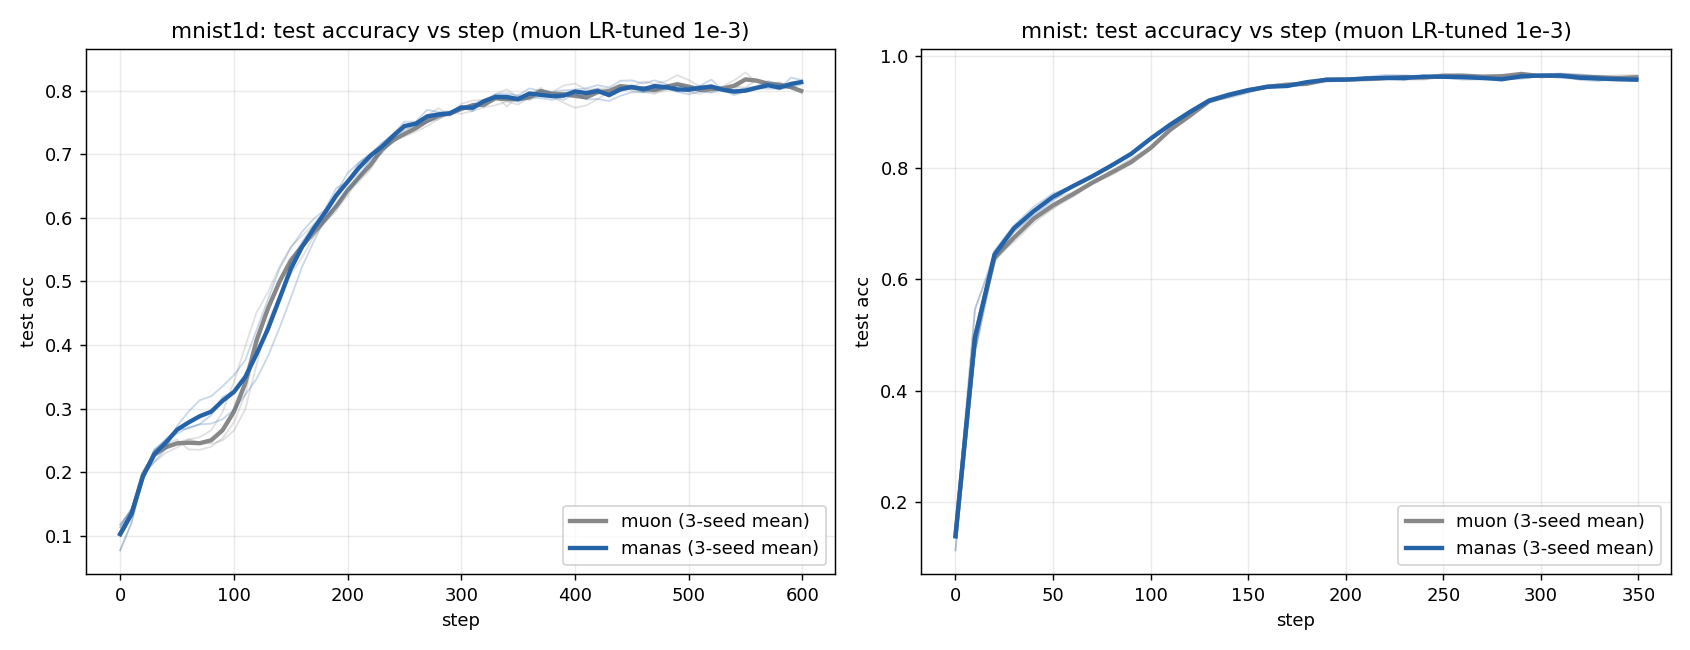
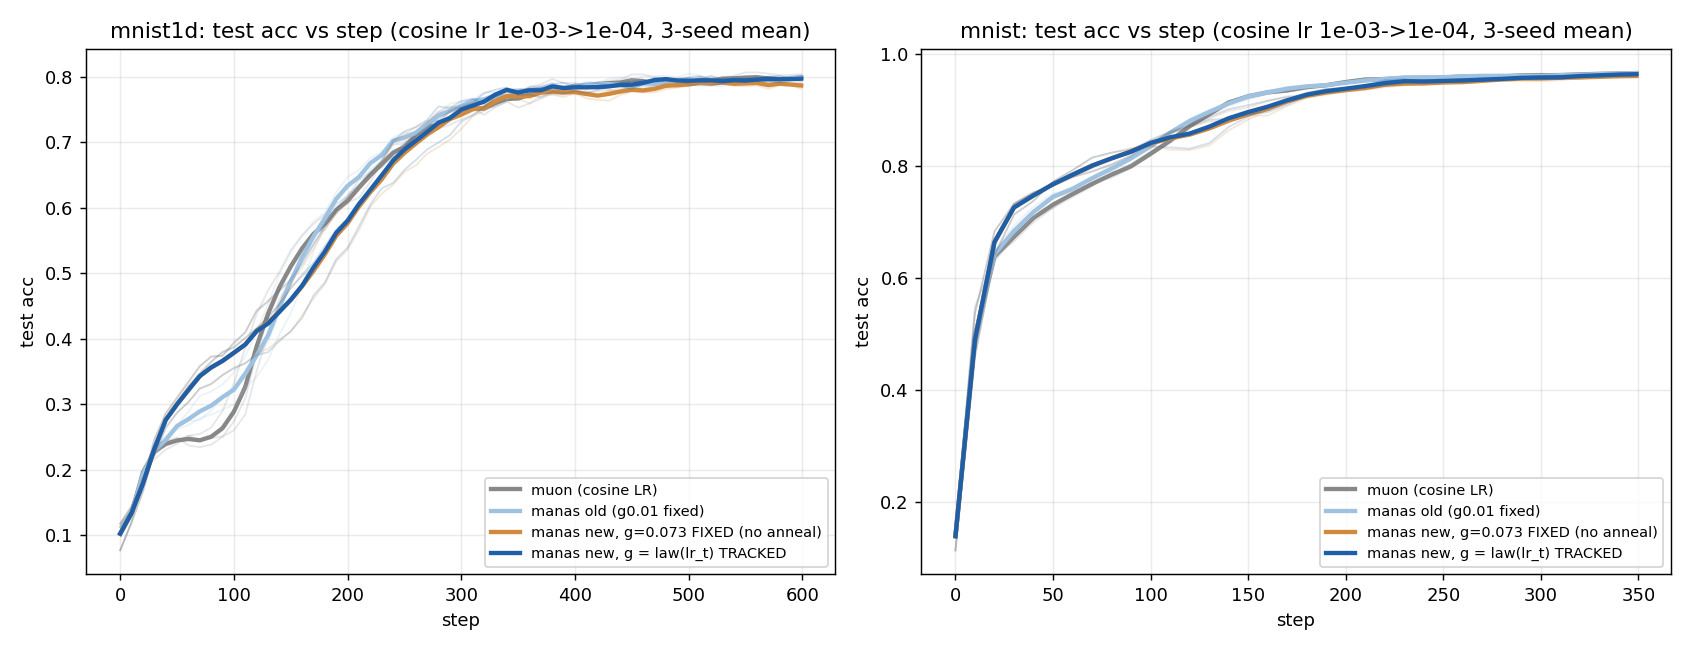
manas: MNIST demo v2 - 3-arm speed test + gamma-tracks-LR curves
speed_mnist.py: muon (LR-tuned) vs old recipe (g0.01) vs new (law gamma +
sketch window): new doubles the old train edge on both datasets (mnist1d
-0.0146 vs -0.0069; mnist -0.0045 vs -0.0022), 6/6 seeds.

speed_mnist_acc.py: cosine LR (1e-3 -> 1e-4), four arms incl. gamma FIXED
vs gamma = law(lr_t) recomputed per step. Tracked gamma keeps the full
early-training lead AND lands on the accuracy ceiling; fixed gamma shows
the residual endgame bias at the mnist1d tail. The 2D-toy anneal
prediction, demonstrated end-to-end: gamma is a function of lr - evaluate
it as one and the convergent-task trade disappears.

diff --git a/.autoresearch/manas/speed_mnist.py b/.autoresearch/manas/speed_mnist.py
@@ -92,14 +92,21 @@ DATA = {"mnist1d": data_mnist1d, "mnist": data_mnist}
 MODEL = {"mnist1d": Net1D, "mnist": NetMNIST}
 
 
-def run(ds, seed, lr, manas, x, y, xt, yt):
+def law_gamma(lr):
+    """The dose law at this config: gamma = 0.08 * sqrt(lr/3e-4) * k/sqrt(m)."""
+    return 0.08 * (lr / 3e-4) ** 0.5 * GA / MICRO ** 0.5
+
+
+def run(ds, seed, lr, gamma, x, y, xt, yt):
+    """gamma=None -> muon; else manas at that probe_gamma (sketch window + lazy shift +
+    ga1 self-gate all on current defaults; ga=4 engages the full stack)."""
     torch.manual_seed(seed)
     model = MODEL[ds]().to(DEV)
     mats = [p for p in model.parameters() if p.ndim == 2]
     rest = [p for p in model.parameters() if p.ndim != 2]
     kw = (dict(micro_vote=True, probe_rho=1.0, probe_rho_step=0.96,
-               probe_gamma=0.01, probe_rank=8)                      # gamma_intra unset = gamma
-          if manas else dict(probe_gamma=0.0))
+               probe_gamma=gamma, probe_rank=8)                     # gamma_intra unset = gamma
+          if gamma is not None else dict(probe_gamma=0.0))
     opt = ManasOptimizer(mats, lr=lr, weight_decay=0.01, **kw)
     aux = torch.optim.AdamW(rest, lr=lr, weight_decay=0.01)
 
@@ -148,7 +155,7 @@ if __name__ == "__main__":
         # Phase 1: muon LR tune
         tune = {}
         for lr in (1e-3, 2e-3, 4e-3, 8e-3):
-            r = run(ds, 0, lr, False, x, y, xt, yt)
+            r = run(ds, 0, lr, None, x, y, xt, yt)
             tune[lr] = r["tail"]
             out[ds]["tune"][f"{lr:.0e}"] = {"tail": r["tail"], "acc": r["acc"]}
             save(out)
@@ -156,26 +163,32 @@ if __name__ == "__main__":
         lr_star = min(tune, key=tune.get)
         out[ds]["lr_star"] = lr_star
         print(f"  -> tuned muon lr = {lr_star:.0e}", flush=True)
-        # Phase 2: paired seeds
+        # Phase 2: paired seeds - muon vs OLD recipe (gamma 0.01, pre-sketch era value) vs
+        # NEW recipe (dose-law gamma, sketch window + lazy shift on current defaults)
+        g_law = law_gamma(lr_star)
+        print(f"  law gamma at lr {lr_star:.0e}: {g_law:.4f}", flush=True)
         rows = []
         for sd in SEEDS:
-            rm = run(ds, sd, lr_star, False, x, y, xt, yt)
-            rn = run(ds, sd, lr_star, True, x, y, xt, yt)
+            rm = run(ds, sd, lr_star, None, x, y, xt, yt)
+            ro = run(ds, sd, lr_star, 0.01, x, y, xt, yt)
+            rn = run(ds, sd, lr_star, g_law, x, y, xt, yt)
             s2 = steps_to(rn["losses"], rm["tail"])
-            print(f"  seed {sd}: muon tail {rm['tail']:.4f} acc {rm['acc']:.3f} | "
-                  f"manas tail {rn['tail']:.4f} acc {rn['acc']:.3f} | "
-                  f"delta {rn['tail'] - rm['tail']:+.4f} | manas hits muon-final at step "
+            print(f"  seed {sd}: muon {rm['tail']:.4f}/{rm['acc']:.3f} | "
+                  f"old(g0.01) {ro['tail']:.4f}/{ro['acc']:.3f} ({ro['tail'] - rm['tail']:+.4f}) | "
+                  f"NEW(g{g_law:.3f}) {rn['tail']:.4f}/{rn['acc']:.3f} "
+                  f"({rn['tail'] - rm['tail']:+.4f}) | new hits muon-final at "
                   f"{s2 if s2 else 'never'}/{STEPS[ds]}", flush=True)
-            rows.append({"seed": sd, "muon": rm, "manas": rn, "steps_to_muon_final": s2})
-            out[ds]["rows"] = [{**r, "muon": {k: v for k, v in r["muon"].items() if k != "losses"},
-                                "manas": {k: v for k, v in r["manas"].items() if k != "losses"}}
-                               for r in rows]
+            rows.append({"seed": sd, "muon": rm, "old": ro, "new": rn, "steps_to_muon_final": s2})
+            out[ds]["rows"] = [{**r, **{a: {k: v for k, v in r[a].items() if k != "losses"}
+                                        for a in ("muon", "old", "new")}} for r in rows]
             save(out)
-        dm = np.mean([r["manas"]["tail"] - r["muon"]["tail"] for r in rows])
-        da = np.mean([r["manas"]["acc"] - r["muon"]["acc"] for r in rows])
-        print(f"  == {ds}: mean tail delta {dm:+.4f} (neg = manas faster), "
-              f"mean acc delta {da:+.4f}, {time.time() - t0:.0f}s ==", flush=True)
-        out[ds]["mean_tail_delta"] = float(dm)
-        out[ds]["mean_acc_delta"] = float(da)
+        dn = np.mean([r["new"]["tail"] - r["muon"]["tail"] for r in rows])
+        do = np.mean([r["old"]["tail"] - r["muon"]["tail"] for r in rows])
+        da = np.mean([r["new"]["acc"] - r["muon"]["acc"] for r in rows])
+        print(f"  == {ds}: NEW mean tail delta {dn:+.4f} (old {do:+.4f}), "
+              f"NEW mean acc delta {da:+.4f}, {time.time() - t0:.0f}s ==", flush=True)
+        out[ds]["mean_tail_delta_new"] = float(dn)
+        out[ds]["mean_tail_delta_old"] = float(do)
+        out[ds]["mean_acc_delta_new"] = float(da)
         save(out)
     print("\nwrote speed_mnist_results.json", flush=True)

diff --git a/.autoresearch/manas/speed_mnist_acc.py b/.autoresearch/manas/speed_mnist_acc.py
@@ -1,6 +1,9 @@
-# Acc-evolution companion to speed_mnist.py: same paired runs at the tuned LR (1e-3),
-# test accuracy logged every 10 steps. Out: speed_mnist_acc.png/json (this dir).
+# Acc-evolution companion to speed_mnist.py, all arms on a COSINE LR schedule (lr0 1e-3 ->
+# 1e-4): muon vs OLD manas (gamma 0.01 fixed) vs NEW-FIXED (law gamma at lr0, constant -
+# the endgame-bias demo) vs NEW-TRACKED (gamma recomputed from the CURRENT lr each step via
+# the law - gamma decays as sqrt(lr), gamma_i tracks live). Out: speed_mnist_acc.png/json.
 import json
+import math
 import os
 import sys
 
@@ -10,24 +13,37 @@ import numpy as np
 import torch
 import torch.nn.functional as F
 
-from speed_mnist import DATA, MODEL, GA, MICRO, STEPS, SEEDS, DEV
+from speed_mnist import DATA, MODEL, GA, MICRO, STEPS, SEEDS, DEV, law_gamma
 from kernels.sm75.manas import ManasOptimizer
 
 EVAL_EVERY = 10
+LR0, LR_END = 1e-3, 1e-4
 
 
-def run(ds, seed, lr, manas, x, y, xt, yt):
+def lr_at(t, steps):
+    return LR_END + (LR0 - LR_END) * 0.5 * (1 + math.cos(math.pi * t / steps))
+
+
+def run(ds, seed, mode, x, y, xt, yt):
+    """mode: 'muon' | 'old' (gamma 0.01 fixed) | 'newfix' (law gamma at lr0, fixed) |
+    'newtrk' (gamma follows the law at the CURRENT lr, every step)."""
     torch.manual_seed(seed)
     model = MODEL[ds]().to(DEV)
     mats = [p for p in model.parameters() if p.ndim == 2]
     rest = [p for p in model.parameters() if p.ndim != 2]
+    g0 = {"muon": 0.0, "old": 0.01, "newfix": law_gamma(LR0), "newtrk": law_gamma(LR0)}[mode]
     kw = (dict(micro_vote=True, probe_rho=1.0, probe_rho_step=0.96,
-               probe_gamma=0.01, probe_rank=8) if manas else dict(probe_gamma=0.0))
-    opt = ManasOptimizer(mats, lr=lr, weight_decay=0.01, **kw)
-    aux = torch.optim.AdamW(rest, lr=lr, weight_decay=0.01)
+               probe_gamma=g0, probe_rank=8) if mode != "muon" else dict(probe_gamma=0.0))
+    opt = ManasOptimizer(mats, lr=LR0, weight_decay=0.01, **kw)
+    aux = torch.optim.AdamW(rest, lr=LR0, weight_decay=0.01)
     g = torch.Generator().manual_seed(seed)
     steps, accs, evsteps = STEPS[ds], [], []
     for t in range(steps):
+        lr_t = lr_at(t, steps)
+        for grp in list(opt.param_groups) + list(aux.param_groups):
+            grp["lr"] = lr_t
+        if mode == "newtrk":
+            opt.probe_gamma = law_gamma(lr_t)     # gamma follows the law; gamma_i tracks live
         opt.zero_grad(set_to_none=True); aux.zero_grad(set_to_none=True)
         for m in range(GA):
             idx = torch.randint(0, x.shape[0], (MICRO,), generator=g).to(DEV)
@@ -43,14 +59,16 @@ def run(ds, seed, lr, manas, x, y, xt, yt):
 
 
 if __name__ == "__main__":
+    ARMS = (("muon", "#888888"), ("old", "#9fc2e0"),
+            ("newfix", "#d08a3e"), ("newtrk", "#1f5fa8"))
     out = {}
     for ds in ("mnist1d", "mnist"):
         print(f"=== {ds} ===", flush=True)
         x, y, xt, yt = [t.to(DEV) for t in DATA[ds]()]
-        out[ds] = {"muon": [], "manas": []}
+        out[ds] = {a: [] for a, _ in ARMS}
         for sd in SEEDS:
-            for name, mn in (("muon", False), ("manas", True)):
-                ev, accs = run(ds, sd, 1e-3, mn, x, y, xt, yt)
+            for name, _ in ARMS:
+                ev, accs = run(ds, sd, name, x, y, xt, yt)
                 out[ds][name].append(accs)
                 print(f"  seed {sd} {name}: final acc {accs[-1]:.3f}", flush=True)
         out[ds]["steps"] = ev
@@ -61,16 +79,19 @@ if __name__ == "__main__":
     matplotlib.use("Agg")
     import matplotlib.pyplot as plt
     fig, axes = plt.subplots(1, 2, figsize=(13, 5))
+    LABELS = {"muon": "muon (cosine LR)", "old": "manas old (g0.01 fixed)",
+              "newfix": f"manas new, g={law_gamma(LR0):.3f} FIXED (no anneal)",
+              "newtrk": "manas new, g = law(lr_t) TRACKED"}
     for ax, ds in zip(axes, ("mnist1d", "mnist")):
         ev = out[ds]["steps"]
-        for name, color in (("muon", "#888888"), ("manas", "#2563a8")):
-            a = np.array(out[ds][name])                     # (seeds, evals)
+        for name, color in ARMS:
+            a = np.array(out[ds][name])
             for row in a:
-                ax.plot(ev, row, color=color, alpha=0.25, lw=1)
-            ax.plot(ev, a.mean(0), color=color, lw=2.4, label=f"{name} (3-seed mean)")
-        ax.set_title(f"{ds}: test accuracy vs step (muon LR-tuned 1e-3)")
+                ax.plot(ev, row, color=color, alpha=0.20, lw=1)
+            ax.plot(ev, a.mean(0), color=color, lw=2.4, label=LABELS[name])
+        ax.set_title(f"{ds}: test acc vs step (cosine lr {LR0:.0e}->{LR_END:.0e}, 3-seed mean)")
         ax.set_xlabel("step"); ax.set_ylabel("test acc")
-        ax.legend(loc="lower right"); ax.grid(alpha=0.25)
+        ax.legend(loc="lower right", fontsize=8); ax.grid(alpha=0.25)
     fig.tight_layout()
     fig.savefig(os.path.join(HERE, "speed_mnist_acc.png"), dpi=130)
     print("wrote speed_mnist_acc.png/json", flush=True)